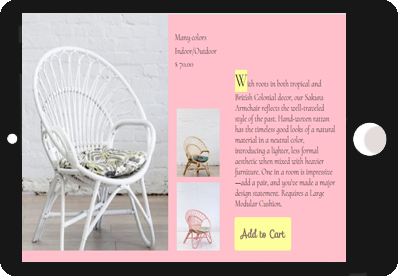
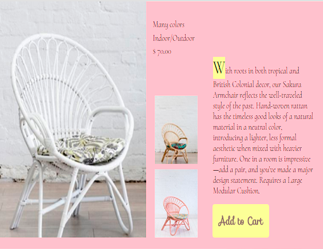
Edit project FundSpace

diff --git a/index.html b/index.html
@@ -136,18 +136,18 @@
               </div>
               <div class="work-description">
                 <div class="work-description-tittle">
-                  <h3>School Project</h3>
+                  <h3>Team Project</h3>
                   <hr>
                   <div class="text">
                     <p>August 2017</p>
-                    <h4>Group Projecst: Fund-Space.org</h4>
+                    <h4>Case Study: Fund-Space.org</h4>
                   </div>
                 </div>
               </div>
             </a>
           </div> <!-- CLOSES work cards -->
 
-          <div class="border">
+          <!-- <div class="border">
             <a href="#">
               <div class="work-image">
                 <div class="work-image-container">
@@ -165,7 +165,7 @@
                 </div>
               </div>
             </a>
-          </div> <!-- CLOSES work cards -->
+          </div> CLOSES last cards -->
 
         </div> <!-- CLOSES Container for all the work cards -->
       </div>
@@ -199,16 +199,24 @@
         <img class="img-fluid" src="img\about\2.jpg" alt="Architecture Collage">
         <img class="img-fluid" src="img\about\3.jpg" alt="Architecture Collage">
         <img class="img-fluid" src="img\about\5.jpg" alt="Architecture Collage">
+        <img src="img\avc.png" alt="">
         <img class="img-fluid" src="img\about\7.jpg" alt="Architecture Collage">
         <img class="img-fluid" src="img\about\8.jpg" alt="Architecture Collage">
         <img class="img-fluid" src="img\about\11.jpg" alt="Architecture Collage">
+        <img class="img-fluid" src="img/albums.PNG" alt="CSS + JS project">
+
+        <!-- <img class="img-fluid" src="img/campsite.PNG" alt="CSS + JS group project"> -->
         <img class="img-fluid" src="img\about\17.jpg" alt="Architecture Collage">
         <img class="img-fluid" src="img\about\12.jpg" alt="Architecture Collage">
         <img class="img-fluid" src="img\about\9.jpg" alt="Architecture Collage">
+        <!-- <img class="img-fluid" src="img\homedecor.PNG" alt="CSS + JS E-Shop"> -->
         <img class="img-fluid" src="img\about\10.jpg" alt="Architecture Collage">
-        <img class="img-fluid" src="img\about\15.jpg" alt="Architecture Collage">
         <img class="img-fluid" src="img\about\141.jpg" alt="Architecture Collage">
+        <img class="img-fluid" src="img/plato1.PNG" alt="CSS + JS group project">
+        <img class="img-fluid" src="img\about\15.jpg" alt="Architecture Collage">
+        <img class="img-fluid" src="img/tablet-decor.png" alt="CSS + JS group project">
         <img class="img-fluid" src="img\about\6.jpg" alt="Architecture Collage">
+
       </div>
     </section>
 
@@ -226,6 +234,7 @@
       </div>
     </section>
 
+    <button onclick="topFunction()" id="topButton" title="Go to top">Top</button>
     <footer>
       <h5>Made by Daniela Trulls</h5>
       <h1>Web Designer, UX/UI designer + Frontend Developer</h1>
@@ -234,7 +243,6 @@
       <script src="js/scripts.js"></script>
     </footer>
   </div>
-    <button onclick="topFunction()" id="topButton" title="Go to top">Top</button>
 
   </body>
 </html>

diff --git a/project2.html b/project2.html
@@ -27,7 +27,7 @@
       </div>
     </header>
 
-    <div class="container-fluid p-0 pt-5 my-photo-space already-visible come-in">
+    <div class="container-fluid p-0 pt-5 already-visible come-in bg-dark">
       <div class="d-flex flex-wrap">
         <div class="w-100 text-center py-4 text-white">
           <h2 class="font-weight-bold">Alliance Francaise San Francisco</h2>
@@ -38,9 +38,9 @@
           <p>Frontend Development: HTML, CSS, WordPress, JavaScript, JQuery</p>
           <a href="http://www.afsf.com"><h6 class="text-uppercase text-white">www.afsf.com</h6></a>
         </div>
-        <div class="mt-5 mx-auto p-0">
+        <div class="mx-auto p-0">
           <div class="w-100 text-center">
-            <img src="img/afsf/home1-afsf.png" alt="Alliance Francaise fs homepage">
+            <img class="w-75" src="img/afsf/home1-afsf.png" alt="Alliance Francaise fs homepage">
             <!-- <img src="img\afsf\laptop-AFSF.png" alt="Alliance Francaise fs homepage"> -->
           </div>
         </div>
@@ -48,10 +48,10 @@
     </div>
 
 
-    <div class="container-fuid module py-5">
+    <div class="container module my-5 pt-5">
       <div class="row">
-        <div class="col-md-4 bg-white ">
-          <div class="pb-4 pt-1 ml-0 ml-md-5 pr-sm-5 mr-sm-4 pr-md-0 mr-md-0">
+        <div class="col-md-7 bg-white ">
+          <div class="pb-4 pt-1 ml-0 ml-md-4 pr-sm-5 mr-sm-4 pr-md-0 mr-md-0">
             <div class="my-3">
               <h2>UX Design</h2>
               <h2>Main weekness</h2>
@@ -61,14 +61,14 @@
             </div>
           </div>
         </div>
-        <div class="col-md-8">
-          <img class="img-fluid" src="img/diagram-fund-space.PNG" alt="">
+        <div class="col-md-3 offset-1 ">
+          <img class="img-fluid" src="img/afsf/alliance-phone-2.png" alt="">
         </div>
       </div>
     </div>
     <div class="container module py-5">
       <div class="row">
-        <div class="mx-0  pl-3 pl-md-0 pl-md-4 col-md-4 order-md-2">
+        <div class="mx-0 pl-3 pl-md-0 pl-md-4 col-md-4 order-md-2">
           <h2 class="pt-5 pt-md-4">Design</h2>
           <p>The design is implemented using React.js library that alows better performance for its rendering by using a virtual DOM. Having the code structured in components also gives me the flexibility to combine CSS Libraries without overwriting each other, by using the components from React Materialize and React Bootstrap</p>
           <p>Frontend Development: React.js, HTML, CSS, JavaScript, JS6, Bootstrap 4, Materialize</p>

diff --git a/project1.html b/project1.html
@@ -3,20 +3,17 @@
   <head>
     <link href="https://fonts.googleapis.com/css?family=Poppins" rel="stylesheet">
     <!-- <link rel="stylesheet" href="main.css"> -->
+    <link rel="stylesheet" href="https://stackpath.bootstrapcdn.com/bootstrap/4.1.3/css/bootstrap.min.css" integrity="sha384-MCw98/SFnGE8fJT3GXwEOngsV7Zt27NXFoaoApmYm81iuXoPkFOJwJ8ERdknLPMO" crossorigin="anonymous">
     <link rel="stylesheet" href="sass/main.css">
     <meta charset="utf-8" name="viewport" content="width=device-width, initial-scale=1">
     <title>Portfolio D.T.</title>
 
   </head>
 
-  <body>
+  <body class="bg-white">
     <header>
-      <nav class="large-screen">
-        <ul class=" links large-links">
-          <a href="index.html#works"><li>Works</li></a>
-          <a href="index.html#about"><li>About</li></a>
-          <a href="index.html#contact"><li>Connect</li></a>
-        </ul>
+      <nav class="d-none d-md-flex d-nowrap p-1 hide" style="transform: scale(.8);">
+        <a href="index.html#works"><div class="d-logo mr-1 text-white"><h6>HOME</h6></div></a>
       </nav>
       <nav class="mobile-screen">
         <ul class="links mobile-links">
@@ -33,10 +30,27 @@
     </header>
 
 
-    <div class="content">
-      <div class="my-photo-space">
-        <img src="img/laptop-fund-space.png" alt="">
+
+    <div class="container-fluid p-0 pt-5 my-photo-space already-visible come-in">
+      <div class="d-flex flex-wrap">
+        <div class="w-100 text-center py-4 text-white">
+          <h2 class="font-weight-bold">FundSpace</h2>
+          <p class="w-75 mx-auto py-2">...</p>
+          <p>...</p>
+          <h6>Skills</h6>
+          <p>UX/UI: User Flow, Interface Design</p>
+          <p>Frontend Development: HTML, CSS, JavaScript, JQuery</p>
+        </div>
+        <div class="mt-5 mx-auto p-0">
+          <div class="w-100 text-center">
+            <img src="img/laptop-fund-space.png" alt="FundSpace homepage">
+          </div>
+        </div>
       </div>
+    </div>
+
+
+    <div class="content">
       <div class="block1">
         <div class="project-header">
           <h2>Case Study: Fund-Space</h2>

diff --git a/sass/main.css b/sass/main.css
@@ -597,12 +597,13 @@ h1 {
   background-color: #ff6060;
   color: white;
   cursor: pointer;
-  padding: 8px;
-  border-radius: 10px;
+  padding: 20px;
+  border-radius: 50%;
   transition: all 200ms ease-in-out; }
   #topButton:hover {
     transform: scale(1.1);
-    background-color: #f9e879; }
+    background-color: #f9e879;
+    color: grey; }
 
 div.work-image {
   /* box-shadow: 1px 5px 7px #b4b4b4; */
@@ -819,7 +820,7 @@ a.links {
 .about-page .about-photos {
   width: 100%;
   margin: 0;
-  padding: 50px 0; }
+  padding: 50px 0 0; }
 
 .contact-page .my-photo img {
   transform: scale(0.12);
@@ -836,8 +837,8 @@ a.links {
 footer {
   text-align: center;
   color: #ecf0f1;
-  height: 70px;
-  padding: 2% 20%;
+  height: 100px;
+  padding: 2rem 20%;
   background-color: black; }
 
 header {
@@ -928,7 +929,7 @@ header {
       align-items: center; }
       nav.large-screen .links.large-links a {
         cursor: pointer;
-        background-color: #f1f1f1;
+        background-color: #fff;
         width: 78px;
         height: 70px;
         text-align: center;

diff --git a/sass/layout/_home.scss b/sass/layout/_home.scss
@@ -151,9 +151,8 @@ a.links{
     // background-color: #f1f1f1;
     width: 100%;
     margin: 0;
-    padding: 50px 0;
-      }
-
+    padding: 50px 0 0;
+  }
 }
 
 .contact-page{
@@ -179,7 +178,7 @@ a.links{
 footer{
   text-align: center;
   color: $font-color-secondary;
-  height: 70px;
-  padding: 2% 20%;
+  height: 100px;
+  padding: 2rem 20%;
   background-color: black;
 }

diff --git a/sass/components/_top.scss b/sass/components/_top.scss
@@ -10,11 +10,12 @@
   background-color: $color-pink;
   color: white;
   cursor: pointer;
-  padding: 8px;
-  border-radius: 10px;
+  padding: 20px;
+  border-radius: 50%;
   transition: all 200ms ease-in-out;
   &:hover{
     transform: scale(1.1);
     background-color: $color-accent;
+    color: grey;
   }
 }

diff --git a/sass/layout/_header.scss b/sass/layout/_header.scss
@@ -82,7 +82,7 @@ header{
       @include displayAndJustify(flex, space-between, center);
       a {
         cursor: pointer;
-        background-color: #f1f1f1;
+        background-color: #fff;
         width: 78px;
         height: 70px;
         text-align: center;
